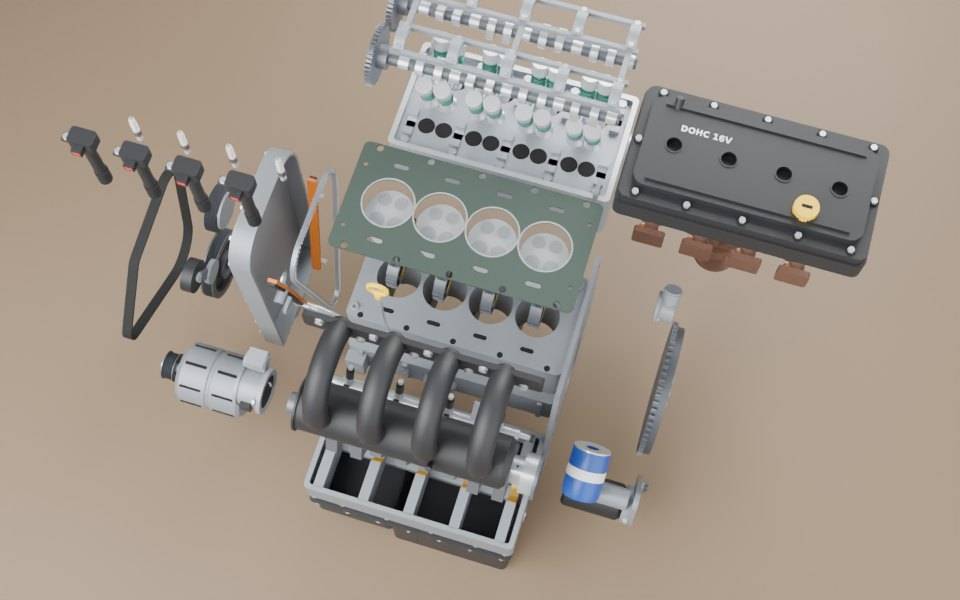
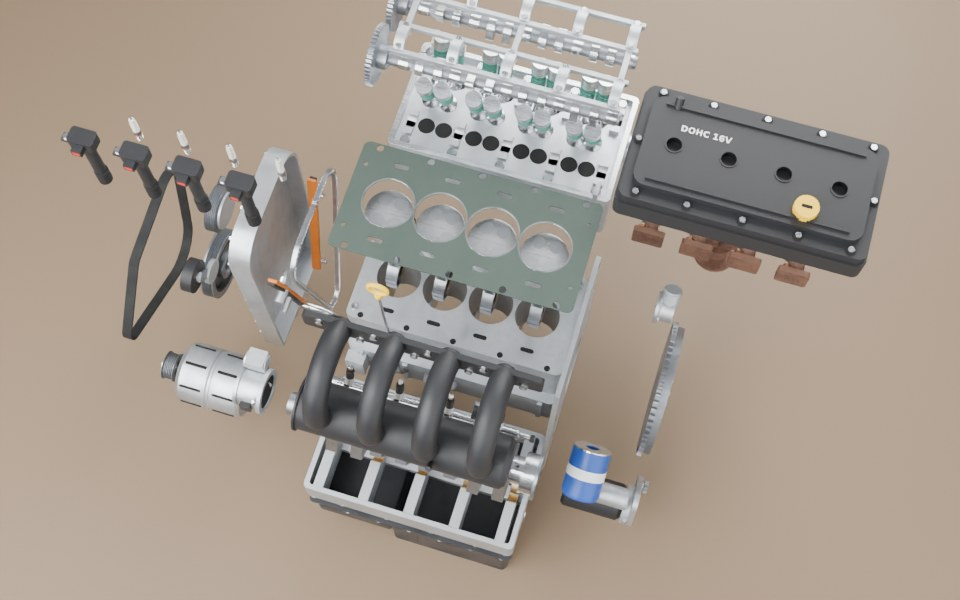
四缸发动机：去玩具感（方向 A）——金属度 1、表面贴图、倒角
- 金属件金属度改成 1（以前压在 0.55 以下，看起来像喷了灰漆的塑料）；
  虚幻那边靠 MyVRToyBox 工作室新加的天光才不发黑
- 6 类可平铺表面贴图（砂铸 / 锻造 / 机加工 / 光面 / 注塑 / 锈），numpy 现算，
  材质 = 贴图 × 颜色和粗糙度，glTF 里导出成 factor，26 种材质共用 15 张图；盒式投影 UV
- 每个零件加 Bevel（单段，夹角 > 50° 的边，0.4 ~ 1.8 mm）+ Weighted Normal；
  三角面 17 万 → 31 万
- Blender 预览加反射用的摄影棚环境（背景不变）
- 重新渲染 README 的 4 张预览图；Blender 4.2.23 和 5.2.3 上都跑过

Claude-Session: https://claude.ai/code/session_01HRVCGpNqFsuA6piUhW1mUT

diff --git a/四缸发动机爆炸图/build_engine.py b/四缸发动机爆炸图/build_engine.py
@@ -128,6 +128,136 @@ def principled(name, hexc, metal=0.0, rough=0.5, coat=0.0, alpha=1.0, trans=0.0)
     return m
 
 
+# ---------------------------------------------------------------- 表面贴图（可平铺的噪声，numpy 现算）
+# 真实零件的表面不是一个颜色、一个粗糙度：砂铸铝有颗粒，加工面有刀纹，抛光面有手印。全身一个值 = "刚出模的塑料玩具"。
+# 做法：每一类表面（铸造、锻造、加工、光面、注塑、锈）生成一套灰度贴图，材质再乘上自己的颜色和粗糙度。
+# glTF 也是"贴图 × 系数"（baseColorFactor、roughnessFactor、metallicFactor），所以同一套贴图能给很多材质共用，
+# 导出时 Blender 认得 Mix(相乘) / Math(相乘) 这两种节点，自动换成系数。
+TEX_N = 512            # 贴图边长（像素）
+TEX_MM = 128.0         # 一张贴图铺多大（毫米），0.25 mm / 像素。UV 用盒式投影（box_uv），所有零件纹理大小一致
+TEX = {}               # 类别 → (底色图, 粗糙度图, 法线图或 None, 底色均值, 粗糙度均值)
+
+
+def _noise(n, beta, seed, stretch=1.0):
+    """可平铺的 1/f^beta 噪声：白噪声在频域里按频率衰减再变回来。FFT 天生是周期的，所以贴图四边接得上。
+    beta 大 = 大块斑驳，beta 小 = 细颗粒；stretch > 1 时沿 u 方向拉长（刀纹）。均值 0、标准差 1"""
+    import numpy as np
+    rng = np.random.default_rng(seed)
+    F = np.fft.fft2(rng.standard_normal((n, n)))
+    fu = np.fft.fftfreq(n)[None, :] * stretch
+    fv = np.fft.fftfreq(n)[:, None]
+    f = np.sqrt(fu * fu + fv * fv)
+    f[0, 0] = 1.0
+    F *= f ** -beta
+    F[0, 0] = 0
+    a = np.real(np.fft.ifft2(F))
+    return (a - a.mean()) / a.std()
+
+
+# 类别：底色乘数 = 1 - 斑驳 - 颗粒，粗糙度乘数 = 基准 + 斑驳 + 颗粒；blot / grain 是两层噪声的 beta（越小越细）。
+# bump = 法线图强度：只给铸造、锻造、锈这三种"摸得出颗粒"的表面，而且压得很低（法面平均只偏 3° ~ 5°）——
+# 砂铸的颗粒不到 0.5 mm，太强就成了水泥墙；VR 里细碎的法线还会在高光上闪（镜面走样），所以加工面、注塑件只靠粗糙度变化
+SURFACES = dict(
+    cast=dict(base=(.035, .03), rough=(.07, .08), bump=.12, blot=1.8, grain=.3),        # 砂铸铝：细颗粒 + 大块明暗
+    forged=dict(base=(.06, .03), rough=(.09, .05), bump=.1, blot=1.6, grain=.5),        # 锻件、铸铁：氧化皮，斑驳更明显
+    machined=dict(base=(.02, .015), rough=(.03, .09), bump=0, blot=1.6, grain=.8, stretch=14),   # 车 / 磨削面：一道道刀纹
+    smooth=dict(base=(.015, .005), rough=(.12, .02), bump=0, blot=2.0, grain=.6),       # 抛光钢、喷漆面：只有淡淡的手印
+    molded=dict(base=(.02, .01), rough=(.05, .05), bump=0, blot=1.8, grain=.3),         # 注塑件、橡胶：细皮纹（只在粗糙度上）
+    rust=dict(base=(.14, .06), rough=(.1, .05), bump=.18, blot=1.5, grain=.6),          # 排气歧管：烧过的铸铁，颜色斑驳
+)
+
+
+def _image(name, rgb, srgb):
+    import numpy as np
+    n = rgb.shape[0]
+    img = bpy.data.images.new(name, n, n, alpha=False)
+    img.colorspace_settings.name = 'sRGB' if srgb else 'Non-Color'    # 先设色彩空间：之后再改会把生成的图重置成黑的
+    px = np.ones((n, n, 4), dtype=np.float32)
+    px[..., :3] = rgb
+    img.pixels.foreach_set(px.ravel())
+    img.update()
+    img.file_format = 'PNG'
+    img.pack()                      # 打进 .blend，glb 导出时也按 PNG 嵌进去
+    return img
+
+
+def surface_tex(kind):
+    """生成（第一次用到时）一类表面的贴图"""
+    if kind in TEX:
+        return TEX[kind]
+    import numpy as np
+    s = SURFACES[kind]
+    seed = sorted(SURFACES).index(kind) * 10
+    blot = _noise(TEX_N, s['blot'], seed)
+    grain = _noise(TEX_N, s['grain'], seed + 1, s.get('stretch', 1.0))
+    base = np.clip(1 - .05 - s['base'][0] * blot - s['base'][1] * grain, 0, 1)
+    rough = np.clip(.8 + s['rough'][0] * blot + s['rough'][1] * grain, 0, 1)
+    srgb = np.where(base <= .0031308, base * 12.92, 1.055 * base ** (1 / 2.4) - .055)    # 存的是 sRGB，乘的时候按线性
+    base_img = _image(f'T_{kind}_Base', np.repeat(srgb[..., None], 3, 2), True)
+    orm = np.stack([np.ones_like(rough), rough, np.ones_like(rough)], -1)                 # R 不用、G 粗糙度、B 金属度（glTF 约定）
+    orm_img = _image(f'T_{kind}_ORM', orm, False)
+    nrm_img = None
+    if s['bump'] > 0:
+        h = grain + blot * .2
+        dx = np.roll(h, -1, 1) - np.roll(h, 1, 1)                  # roll = 周期边界，法线图也能平铺
+        dy = np.roll(h, -1, 0) - np.roll(h, 1, 0)
+        k = .5 / np.sqrt((dx * dx + dy * dy).mean())               # 斜率归一化：图里法线平均偏 ~27°，材质里再乘 bump
+        dx, dy = dx * k, dy * k
+        nv = np.stack([-dx, -dy, np.ones_like(h)], -1)
+        nv /= np.linalg.norm(nv, axis=-1, keepdims=True)
+        nrm_img = _image(f'T_{kind}_Normal', nv * .5 + .5, False)
+    TEX[kind] = (base_img, orm_img, nrm_img, float(base.mean()), float(rough.mean()))
+    return TEX[kind]
+
+
+def pbr(name, hexc, metal, rough, kind):
+    """贴图材质：底色 = 贴图 × 颜色，粗糙度 = 贴图 G × 系数，金属度 = 贴图 B（全白）× 系数，法线图按类别给强度"""
+    base_img, orm_img, nrm_img, base_mean, rough_mean = surface_tex(kind)
+    m = principled(name, hexc, metal, rough)
+    nt, b = _bsdf(m)
+    N, L = nt.nodes, nt.links
+    col = hexcol(hexc)
+    tb = N.new('ShaderNodeTexImage')
+    tb.image = base_img
+    mix = N.new('ShaderNodeMix')
+    mix.data_type, mix.blend_type = 'RGBA', 'MULTIPLY'
+    mix.inputs['Factor'].default_value = 1.0
+    mix.inputs[7].default_value = (*[min(1.0, c / base_mean) for c in col], 1.0)      # B（颜色）
+    L.new(tb.outputs['Color'], mix.inputs[6])                                         # A（贴图）
+    L.new(mix.outputs[2], b.inputs['Base Color'])
+    to = N.new('ShaderNodeTexImage')
+    to.image = orm_img
+    sep = N.new('ShaderNodeSeparateColor')
+    L.new(to.outputs['Color'], sep.inputs[0])
+    for ch, val, sock in ((1, min(1.0, rough / rough_mean), 'Roughness'), (2, metal, 'Metallic')):
+        mul = N.new('ShaderNodeMath')
+        mul.operation = 'MULTIPLY'
+        mul.inputs[1].default_value = val
+        L.new(sep.outputs[ch], mul.inputs[0])
+        L.new(mul.outputs[0], b.inputs[sock])
+    if nrm_img is not None:
+        tn = N.new('ShaderNodeTexImage')
+        tn.image = nrm_img
+        nm = N.new('ShaderNodeNormalMap')
+        nm.inputs['Strength'].default_value = SURFACES[kind]['bump']
+        L.new(tn.outputs['Color'], nm.inputs['Color'])
+        L.new(nm.outputs['Normal'], b.inputs['Normal'])
+    return m
+
+
+def box_uv(bm):
+    """盒式投影 UV：每个面按法线最接近的那根轴，取另外两个坐标（毫米）÷ TEX_MM。
+    所有零件同一个纹理密度；圆柱面上换轴的地方有接缝，纹理对比很淡，看不太出来"""
+    uv = bm.loops.layers.uv.new('UVMap')
+    bm.normal_update()
+    for f in bm.faces:
+        n = f.normal
+        ax = max(range(3), key=lambda k: abs(n[k]))
+        a, c = ((1, 2), (0, 2), (0, 1))[ax]
+        for lp in f.loops:
+            lp[uv].uv = (lp.vert.co[a] / TEX_MM, lp.vert.co[c] / TEX_MM)
+
+
 # ---------------------------------------------------------------- 几何工具（bmesh）
 def chamfer(pts, b, closed):
     """把折线的每个拐角切成 45° 倒角"""
@@ -639,33 +769,36 @@ def piston_pin_z(i):
 
 
 def make_materials():
-    # 金属度都压在 0.55 以下：虚幻工作室里没有反射探针，金属度太高在虚幻里发黑（车床实测）
+    # 金属的金属度给 1。金属没有漫反射，颜色全靠反射周围的环境；0.3 ~ 0.5 这种"半金属"一半按漆面算，看起来像喷了灰漆的塑料。
+    # 以前压在 0.55 以下，是因为虚幻工作室里没有东西可反射（金属发黑，车床实测）；现在 MyVRToyBox 的工作室加了天光
+    # （开局抓一次房间当环境），金属有东西可照了。金属的底色就是它的反射率：铝最亮，钢铁暗一些，铸造 / 锻造表面再暗一点。
+    # 漆、塑料、橡胶、陶瓷、涂层（缸垫、弹簧漆）是非金属，金属度 0
     return dict(
-        alu=principled('M_Alu_Cast', '#8e9399', .35, .55),
-        alu_lt=principled('M_Alu_Head', '#a2a7ad', .35, .45),
-        alu_mach=principled('M_Alu_Machined', '#d3d6da', .45, .3),
-        iron=principled('M_Iron_Dark', '#55595f', .45, .5),
-        forged=principled('M_Steel_Forged', '#6b7077', .5, .45),
-        steel=principled('M_Steel_Polished', '#c4c8cd', .5, .25),
-        bearing=principled('M_Bearing_Shell', '#c9a24a', .5, .35),
+        alu=pbr('M_Alu_Cast', '#c3c7cb', 1, .55, 'cast'),
+        alu_lt=pbr('M_Alu_Head', '#ccd0d4', 1, .5, 'cast'),
+        alu_mach=pbr('M_Alu_Machined', '#e0e3e6', 1, .28, 'machined'),
+        iron=pbr('M_Iron_Dark', '#8b8f94', 1, .55, 'forged'),
+        forged=pbr('M_Steel_Forged', '#9a9ea3', 1, .45, 'forged'),
+        steel=pbr('M_Steel_Polished', '#c8cbce', 1, .22, 'smooth'),
+        bearing=pbr('M_Bearing_Shell', '#c2a678', 1, .35, 'machined'),
         hole=principled('M_Hole', '#0b0b0c', 0, .85),
-        pan=principled('M_Pan_Black', '#2a2c30', .2, .45),
-        plastic=principled('M_Plastic_Black', '#1f2023', 0, .55),
-        rubber=principled('M_Rubber', '#131415', 0, .85),
-        rust=principled('M_Iron_Exhaust', '#6a4b3c', .3, .75),
-        shield=principled('M_Heat_Shield', '#c9ccd0', .5, .35),
-        piston=principled('M_Piston_Alu', '#cdd0d4', .4, .4),
-        piston_dk=principled('M_Piston_Relief', '#aeb2b7', .4, .45),
-        ring=principled('M_Ring_Dark', '#34363a', .4, .4),
-        gasket=principled('M_Gasket_MLS', '#3c4a43', .3, .5),
-        orange=principled('M_Guide_Orange', '#e07a1a', 0, .5),
-        spring=principled('M_Spring_Green', '#3a8a78', .3, .4),
-        ceramic=principled('M_Ceramic', '#ece8df', 0, .45),
-        yellow=principled('M_Yellow', '#f2c316', 0, .45),
-        blue=principled('M_Filter_Blue', '#1f4fa6', 0, .35),
-        copper=principled('M_Copper', '#c4743c', .5, .35),
-        red=principled('M_Red', '#c8231e', 0, .45),
-        chain=principled('M_Chain', '#8b9097', .5, .4),
+        pan=pbr('M_Pan_Black', '#2a2c30', 0, .42, 'smooth'),
+        plastic=pbr('M_Plastic_Black', '#1f2023', 0, .55, 'molded'),
+        rubber=pbr('M_Rubber', '#141516', 0, .85, 'molded'),
+        rust=pbr('M_Iron_Exhaust', '#6a4b3c', .2, .75, 'rust'),
+        shield=pbr('M_Heat_Shield', '#cfd2d5', 1, .35, 'smooth'),
+        piston=pbr('M_Piston_Alu', '#d3d6d9', 1, .38, 'machined'),
+        piston_dk=pbr('M_Piston_Relief', '#b4b8bc', 1, .5, 'cast'),
+        ring=pbr('M_Ring_Dark', '#5a5d62', 1, .35, 'smooth'),
+        gasket=pbr('M_Gasket_MLS', '#3c4a43', 0, .5, 'smooth'),
+        orange=pbr('M_Guide_Orange', '#e07a1a', 0, .5, 'molded'),
+        spring=pbr('M_Spring_Green', '#3a8a78', 0, .4, 'smooth'),
+        ceramic=pbr('M_Ceramic', '#ece8df', 0, .45, 'smooth'),
+        yellow=pbr('M_Yellow', '#f2c316', 0, .45, 'molded'),
+        blue=pbr('M_Filter_Blue', '#1f4fa6', 0, .35, 'smooth'),
+        copper=pbr('M_Copper', '#c98a62', 1, .35, 'smooth'),
+        red=pbr('M_Red', '#c8231e', 0, .45, 'molded'),
+        chain=pbr('M_Chain', '#a9adb2', 1, .38, 'smooth'),
         white=principled('M_Print_White', '#eeeeee', 0, .5),
     )
 
@@ -771,12 +904,34 @@ OBJS = []           # dict(ob, ex, no)
 # 脚本里所有尺寸、路线照接口参数表写（+X = 正时端），镜像只在这里做一次。
 MIRROR_X = True
 
+# 倒角：现实里没有绝对锐利的边，最小也有零点几毫米的圆角，这条小圆角接住高光、在边上亮出一条细线，
+# 眼睛靠它判断"这是硬的实物"；没有它，边上只有两块明暗不同的面硬碰硬，一看就是 CG。
+# 宽度按零件大小取（最长边 × 0.35%，0.4 ~ 1.8 mm）。只倒夹角超过 50° 的边：方块、六角螺栓头、齿形都在里面，
+# 8 ~ 12 边的细管（弹簧、链销、导线）相邻面只差 30° ~ 45°，本来就该是圆的，倒了只会白白多出面。薄片类零件单独给小值，免得整条边被倒成圆的
+BEVEL_MM = {4: .3, 24: .3, 32: .5, 48: .6}      # 缸垫、正时链条、隔热罩、多楔带
+
+
+def add_bevel(ob, no, size_mm):
+    bv = ob.modifiers.new('Bevel', 'BEVEL')
+    bv.width = BEVEL_MM.get(no, min(1.8, max(.4, size_mm * .0035))) * MM
+    bv.segments = 1                    # 一段斜面 + 下面的加权法线，看起来就是圆角（游戏美术的常用做法），面数只有两段的一半
+    bv.limit_method = 'ANGLE'
+    bv.angle_limit = radians(50)
+    bv.use_clamp_overlap = True
+    # 加权法线：顶点法线按相邻面的面积加权，大平面说了算、保持平的，只有窄窄的倒角面弯过去。
+    # 不加的话，拉伸出来的端面（带孔的轮廓三角化后全是细长三角形）会把倒角边上斜着的法线拖出一道道黑楔子
+    wn = ob.modifiers.new('WeightedNormal', 'WEIGHTED_NORMAL')
+    wn.mode = 'FACE_AREA'
+    wn.keep_sharp = True
+
 
 def finish(name, no, bm, mats, ex=(), smooth=34):
     if MIRROR_X:
         bmesh.ops.transform(bm, matrix=Matrix.Scale(-1, 4, (1, 0, 0)), verts=bm.verts)
         bmesh.ops.reverse_faces(bm, faces=bm.faces)
         ex = [(-e[0], e[1], e[2], e[3]) for e in ex]
+    size = max(max(v.co[k] for v in bm.verts) - min(v.co[k] for v in bm.verts) for k in range(3))
+    box_uv(bm)
     me = bpy.data.meshes.new(name)
     bm.to_mesh(me)
     bm.free()
@@ -786,6 +941,7 @@ def finish(name, no, bm, mats, ex=(), smooth=34):
     collection('Engine').objects.link(ob)
     shade(me, smooth)
     ob.data.transform(Matrix.Scale(MM, 4))
+    add_bevel(ob, no, size)
     ob.parent = ROOT
     ob['name_cn'] = INFO[no][0]
     OBJS.append(dict(ob=ob, ex=list(ex), no=no))
@@ -1874,6 +2030,37 @@ def look_at(ob, target):
     ob.rotation_euler = (Vector(target) - ob.location).to_track_quat('-Z', 'Y').to_euler()
 
 
+def studio_world(nt, plain):
+    """镜头直接看到的背景还是原来那片浅灰；反射里看到的换成"摄影棚"：头顶亮、往下渐暗，地平线上一圈亮带。
+    金属表面就是一面模糊的镜子，环境有明暗过渡，曲面上才有高光和暗部，才读得出"这是金属、这里是圆角"；
+    环境是一片均匀的灰，金属就只剩一片均匀的灰。脚本自己拼，不用下载 HDRI"""
+    N, L = nt.nodes, nt.links
+    out = next(n for n in N if n.type == 'OUTPUT_WORLD')
+    tc = N.new('ShaderNodeTexCoord')
+    sep = N.new('ShaderNodeSeparateXYZ')
+    L.new(tc.outputs['Generated'], sep.inputs[0])           # 世界着色器里 Generated = 视线方向
+    mr = N.new('ShaderNodeMapRange')
+    mr.inputs['From Min'].default_value, mr.inputs['From Max'].default_value = -1.0, 1.0
+    L.new(sep.outputs['Z'], mr.inputs['Value'])
+    ramp = N.new('ShaderNodeValToRGB')
+    el = ramp.color_ramp.elements
+    el[0].position, el[0].color = .0, (.02, .02, .02, 1)
+    el[1].position, el[1].color = 1.0, (1.1, 1.1, 1.12, 1)
+    for pos, v in ((.47, .06), (.52, .75), (.56, .3), (.75, .55)):
+        e = el.new(pos)
+        e.color = (v, v, v * 1.02, 1)
+    L.new(mr.outputs['Result'], ramp.inputs['Fac'])
+    studio = N.new('ShaderNodeBackground')
+    studio.inputs['Strength'].default_value = .6
+    L.new(ramp.outputs['Color'], studio.inputs['Color'])
+    lp = N.new('ShaderNodeLightPath')
+    mix = N.new('ShaderNodeMixShader')
+    L.new(lp.outputs['Is Camera Ray'], mix.inputs['Fac'])
+    L.new(studio.outputs[0], mix.inputs[1])
+    L.new(plain.outputs[0], mix.inputs[2])
+    L.new(mix.outputs[0], out.inputs['Surface'])
+
+
 def setup_world_and_cam():
     sc = bpy.context.scene
     sc.frame_start, sc.frame_end = 1, F_END
@@ -1888,6 +2075,7 @@ def setup_world_and_cam():
     if bg:
         bg.inputs[0].default_value = (*hexcol('#dfe3e8'), 1)
         bg.inputs[1].default_value = .35
+        studio_world(w.node_tree, bg)
     bm = bmesh.new()
     box(bm, (0, 0, PAN_BOT - 5), (3000, 3000, 10), 0)
     me = bpy.data.meshes.new('Table')
@@ -2002,13 +2190,16 @@ def main():
     print('[OK] saved engine.blend')
     tris = 0
     lo, hi = [1e9] * 3, [-1e9] * 3
+    dg = bpy.context.evaluated_depsgraph_get()
     for d in OBJS:
-        me = d['ob'].data
+        ev = d['ob'].evaluated_get(dg)
+        me = ev.to_mesh()                    # 带倒角之后的网格（导出的就是它）
         me.calc_loop_triangles()
         tris += len(me.loop_triangles)
         for v in me.vertices:
             lo = [min(a, b) for a, b in zip(lo, v.co)]
             hi = [max(a, b) for a, b in zip(hi, v.co)]
+        ev.to_mesh_clear()
     size = [round((b - a) * 1000, 1) for a, b in zip(lo, hi)]
     print(f'[OK] {len(OBJS)} engine objects, {tris} triangles, size {size} mm, '
           f'x {lo[0] * 1000:.0f}..{hi[0] * 1000:.0f}  y {lo[1] * 1000:.0f}..{hi[1] * 1000:.0f}  z {lo[2] * 1000:.0f}..{hi[2] * 1000:.0f}')

diff --git a/四缸发动机爆炸图/README.md b/四缸发动机爆炸图/README.md
@@ -92,5 +92,9 @@
 - **导出前整体左右镜像**（`MIRROR_X`，X 取反）：桌上进气侧朝玩家时，正时端才能落在玩家左手边。脚本里的尺寸、爆炸路线都按上面的坐标写，镜像只在 `finish()` 里做一次，气门室盖上的 "DOHC 16V" 提前反写了。镜像后的发动机相当于从正时端看曲轴逆时针转（老款本田就是这样），静态模型看不出区别。
 - 爆炸公式和电机、车床、万用表一样：每个零件有几段位移，每段有一个出场时刻 s，在总进度 T 的 `[0.6s, 0.6s + 0.4]` 区间里缓动走完；装回时 T 倒着走。
 - 在虚幻里按最长边缩放到 **60 cm**（实物装配后最长的一边是高度：油底壳底到点火线圈顶约 67 cm，所以缩放 0.89 倍）。活塞直径约 7.7 cm，捏得住；1:1 放上桌子拆开后会摊出 1.3 米多。
-- 材质金属度都压在 0.55 以下（虚幻工作室里没有反射探针，金属度高的会发黑）。
+- **表面真实感**（2026-10 加的，目的是去掉"玩具感"）：
+  - **金属的金属度是 1**。金属没有漫反射，颜色全靠反射环境；以前压在 0.55 以下，是因为虚幻工作室里没东西可反射、金属发黑，但半金属看起来像喷了灰漆的塑料。现在 MyVRToyBox 的工作室加了天光（开局抓一次房间当环境），这条限制去掉了。别的模型（车床、万用表……）还是旧的 0.55 上限，没动。
+  - **可平铺的表面贴图**：`SURFACES` 里 6 类表面（砂铸、锻造、机加工、光面、注塑、锈），每类一套 numpy 现算的 512² 噪声贴图（底色乘数、粗糙度乘数，砂铸 / 锻造 / 锈另有很淡的法线图）。材质 = 贴图 × 自己的颜色和粗糙度，glTF 里就是 `baseColorFactor`、`roughnessFactor`，所以 26 种材质共用 15 张图（约 5 MB）。UV 是盒式投影（`box_uv`），所有零件纹理密度一样（128 mm 一张）。
+  - **倒角**：每个零件加一个 Bevel 修改器（单段）+ Weighted Normal（大平面保持平、只有倒角面弯过去，不然带孔端面的细长三角形会拖出黑楔子），只倒夹角超过 50° 的边，宽度按零件大小 0.4 ~ 1.8 mm；缸垫、链条、隔热罩、皮带单独给小值（`BEVEL_MM`）。`.blend` 里修改器没应用，导出 glb 时才应用。三角面 17 万 → 约 31 万。
+  - **Blender 预览的反射环境**（`studio_world`）：镜头看到的背景还是浅灰，反射里是上亮下暗、地平线一圈亮带的摄影棚，金属才有高光和明暗过渡。只影响 Blender 里的样子，虚幻里靠天光。
 - 简化了的地方：缸体里的水套、油道没有做（实心）；齿轮、链轮齿数为了好看取整，飞轮齿圈只做了 60 齿（实物 130 多齿）；线束、真空管、传感器没画；气缸垫画成 3 mm 厚（实物约 1 mm）。
